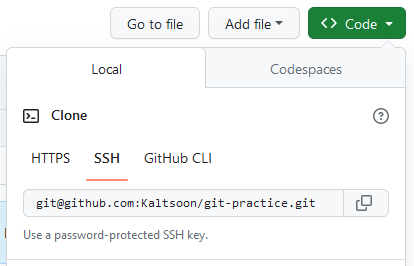
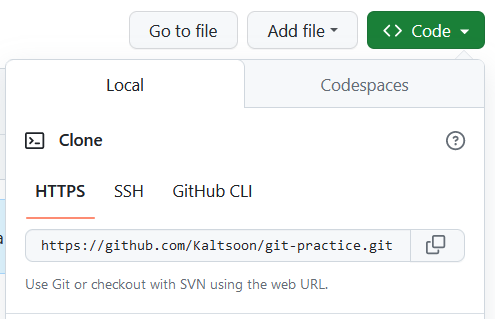
git

diff --git a/material/version-control.md b/material/version-control.md
@@ -620,6 +620,52 @@ Of course, the same procedure can be repeated on the command line. You can brows
 
 > Remember, don't push anything secret to the remote repository: no passwords, personal API keys, your student number, or anything you wouldn't want to share with the whole Internet.
 
+## GitHub's workflow
+
+Sites like GitHub make collaboraton in development projects a lot easier. No one notices problems more efficiently than the actual users, and GitHub creates a platform for reporting those complications. Any user can create an _issue_ to a public project in GitHub, where one can report any problems with regards to using the software. Common issue subjects are error messages in edge cases, problems in installing, or missing features. 
+
+If one knows the solution to a problem, they can even suggest their own improvements to the project. However, this requires having access to the source code of the project. A public project can be copied to a local computer with the command `git clone <https-address-of-the-repository>`. The command takes the address of the remote repository, which can be acquired from the upper right corner of the project page, as an argument.
+
+![Cloning address](/assets/git-clone.png)
+
+Note that this is actually the same address you used before when adding a remote repository with the command `git remote add`. The owner of a project will not know who has cloned their project. The command creates a new folder named by the repository containing the contents of the repository to the folder where we run it.
+
+In the future, when you start a new Git project, you have two options for linking the local project to a repostory in GitHub. One option is to start by running `git init` inside a folder, create a repository to it in GitHub, and link them together. Another possibility is to create the remote first and simply clone the empty project to your local machine. The latter option has less steps so it is a bit more convinient.
+
+In order to push some new commits to a project one has cloned, the project's owner has to [add the user as a collaborator](https://help.github.com/articles/inviting-collaborators-to-a-personal-repository/). Otherwise the command `git push` will fail, because the user doesn't have sufficient permissions to the repository. In other words, when starting a collaborative project, all the developers should be added as collaborators, allowing them to push code to the remote repository freely.
+
+However, there exists another way of suggesting changes to an existing project. This is called _forking_. When one forks a project, a copy of it is added to the users _own profile_. This will create an event to GitHub's "feed", and the project's owner can see who has forked their repository. After forking a project, you can clone the project from your _own profile_, and push changes to your _own version_, which has been separated from the original one. The difference to cloning is, that the cloned repository will not appear in your GitHub profile.
+
+If the chages you have done to your own version are good enough in your own opinion, you can suggest merging them to the original project with a [pull request](https://help.github.com/articles/about-pull-requests/). The owner of the original project can then go through your suggested changes and to integrate them to the project if they wish.
+
+Let's clone the git-practice repository we have been working on from GitHub to our local computer. First, open Git Bash in the folder where you want to clone the repository. For example, we can right-click on the Desktop and choose "Git Bash Here" to clone the repository on the Desktop. Then, let's clone the repository by using _the HTTPS address_ of the repository we get from GitHub. We can change the name of the repository folder by providing a name at the end of the `git clone` command. Let's call this folder `git-practice-clone` to not confuse it with the `git-practice` folder we have as well:
+
+```bash
+git clone <https-address-of-the-repository> git-practice-clone
+```
+
+{: .highlight }
+
+> Usually we should not have multiple versions of the same repository on our computer to avoid confusion.
+
+We should now have a `git-practice-clone` folder in the folder we ran the command in. Open the folder for example in Visual Studio Code. We can see that the folder contains everything we have in GitHub. To open the repository in Git Bash we can either right-click on the repository folder or we can run the command `cd git-practice-clone`. The [cd command](https://www.geeksforgeeks.org/cd-command-in-linux-with-examples/) will change the current folder.
+
+{: .important-title }
+
+> Exercise 13
+>
+> 1. Clone the git-practice repository to your local computer as instructed above and open the repository folder in Git Bash and in an editor such as Visual Studio Code.
+> 2. Change the contents of some file (for example the `git_practice.txt`) file and push the changes to GitHub. Open the repository in GitHub and see that it has the commit you created.
+> 3. Find out using Google, how you can find out the names and addresses of the remote repositories of a project. The answer is a command you should run inside the Git project, when a remote has been set.
+
+{: .important-title }
+
+> Exercise 14
+>
+> Explore an open source project repositories in GitHub. You can for example search for your favorite library (such as React) on the [GitHub's home page](https://github.com/) using the search field at the top of the page. Alternatively, you can use Google.
+>
+> Find the issues and the pull requests, the people who have contributed to the project, and the statistics associated with them.
+
 ## The End
 
 As a novice programmer it is easy to lose and even break code with version control. However, learning how to use one is definitely one of the most vital skills required in the working life. Though the system in use may not be Git, the same principles often apply.

diff --git a/material/schedule.md b/material/schedule.md
@@ -18,7 +18,7 @@ On the third week the teams start working on the project. The project advances i
 | Week start date | Topics                                                                    | Exercises                                                |
 | --------------- | ------------------------------------------------------------------------- | -------------------------------------------------------- |
 | 23.10.          | [Agile software development and Scrum](/agile-software-development)       | Exercises 1 - 7, deadline on {{site.week_1_deadline}}    |
-| 30.10.          | [Version control: Git and GitHub](/git)                                   | Exercises 1 - 12, deadline on {{site.week_2_deadline}}   |
+| 30.10.          | [Version control: Git and GitHub](/git)                                   | Exercises 1 - 14, deadline on {{site.week_2_deadline}}   |
 | 6.11.           | [Sprint 1](/sprint-1): Sprint Planning, Scrum backlogs, GitHub's workflow | Exercises 1 - 18, deadline on {{site.sprint_1_deadline}} |
 | 13.11.          | Daily Scrum, Sprint Review                                                |                                                          |
 | 20.11.          | [Sprint 2](/sprint-2): Retrospective                                      | Exercises 1 - 19, deadline on {{site.sprint_2_deadline}} |
